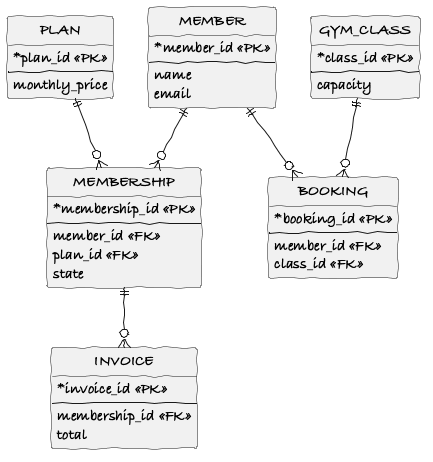
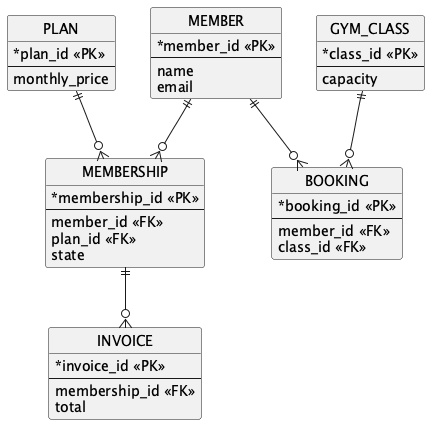
docs: draw the diagrams as plain UML instead of a sketch style
The hand-drawn look read as unprofessional for a report.

diff --git a/docs/genai-prompts.md b/docs/genai-prompts.md
@@ -11,3 +11,4 @@ Report §13. The spec requires the **list of prompts** in the main body of the r
 | 5 | 2026-10-07 | Chirag | Claude (Claude Code) | "help me continue the gym membership project i am working on, first study whats done so far" | Status review of the repo against the spec. No artefact used |
 | 6 | 2026-10-07 | Chirag | Claude (Claude Code) | "lets start on this - Iteration 0 (due 4 Oct): the architecture section (§5) and all analysis sketches (§6: class, sequence, state chart, ER) haven't been started." Then chose Hexagonal from four suggested patterns | Bootstrap PlantUML diagrams (package, ports and adapters, class, UC2 sequence, Membership state chart, ER), candidate object table and architecture notes |
 | 7 | 2026-10-07 | Chirag | Claude (Claude Code) | "diagrams are way too complicated, should be simple, human made" | Redrew all diagrams as small hand-drawn sketches with fewer classes |
+| 8 | 2026-10-07 | Chirag | Claude (Claude Code) | "no dont use unprofessional lines... it should be normal diagrams" | Switched the diagrams back to plain straight-line UML |

diff --git a/docs/analysis/README.md b/docs/analysis/README.md
@@ -42,7 +42,7 @@ Found by noun identification (Lecture B method) over [UC1](../requirements/use-c
 
 ## Kept deliberately simple
 
-These are analysis **sketches**, so they show only the main classes and a few attributes and operations each. Design patterns (State for `Membership`, Strategy for `DiscountPolicy`, Observer for `Waitlist`, Factory for `Plan`) are added in the design and implementation iterations, not here. All diagrams share one hand-drawn style from [style.iuml](../style.iuml).
+These are analysis **sketches**, so they show only the main classes and a few attributes and operations each. Design patterns (State for `Membership`, Strategy for `DiscountPolicy`, Observer for `Waitlist`, Factory for `Plan`) are added in the design and implementation iterations, not here. All diagrams share one plain style from [style.iuml](../style.iuml).
 
 ## Checklist against the §6 marking criteria
 
